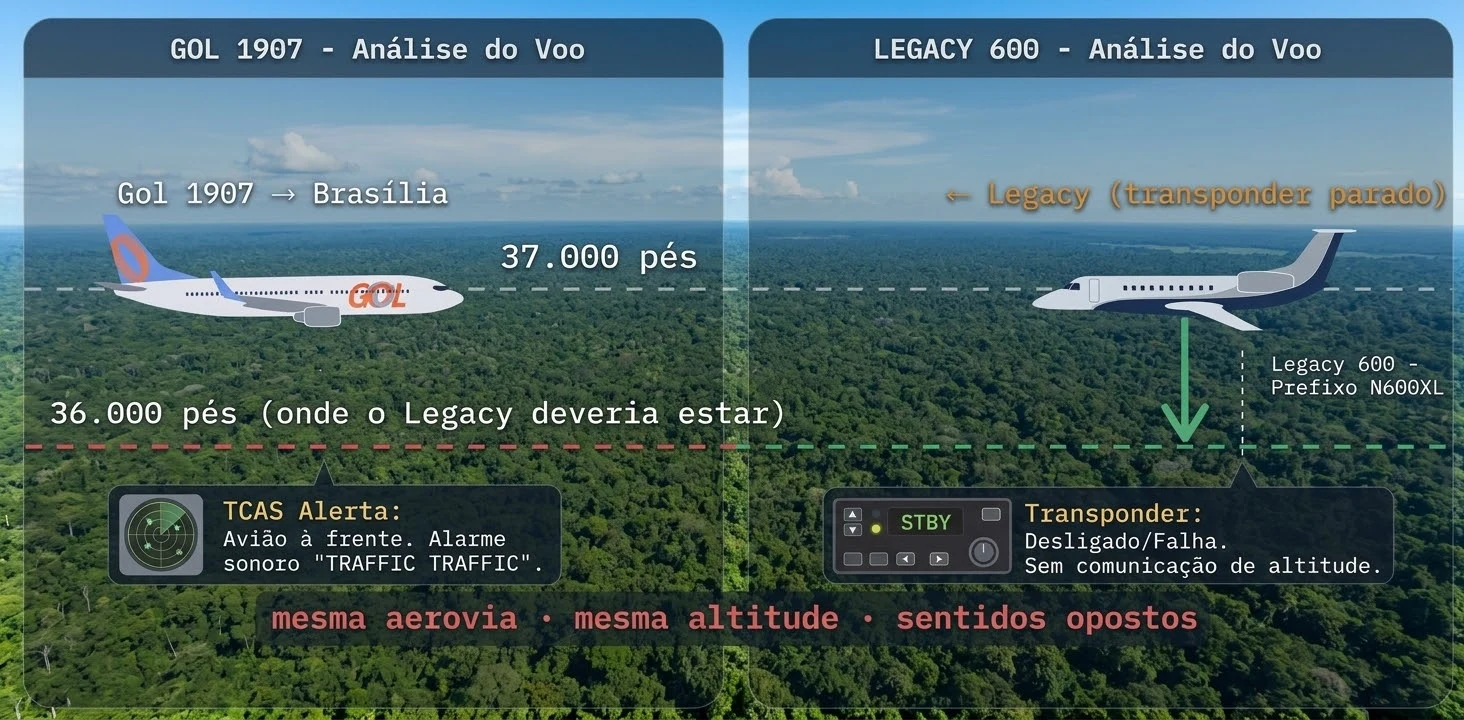
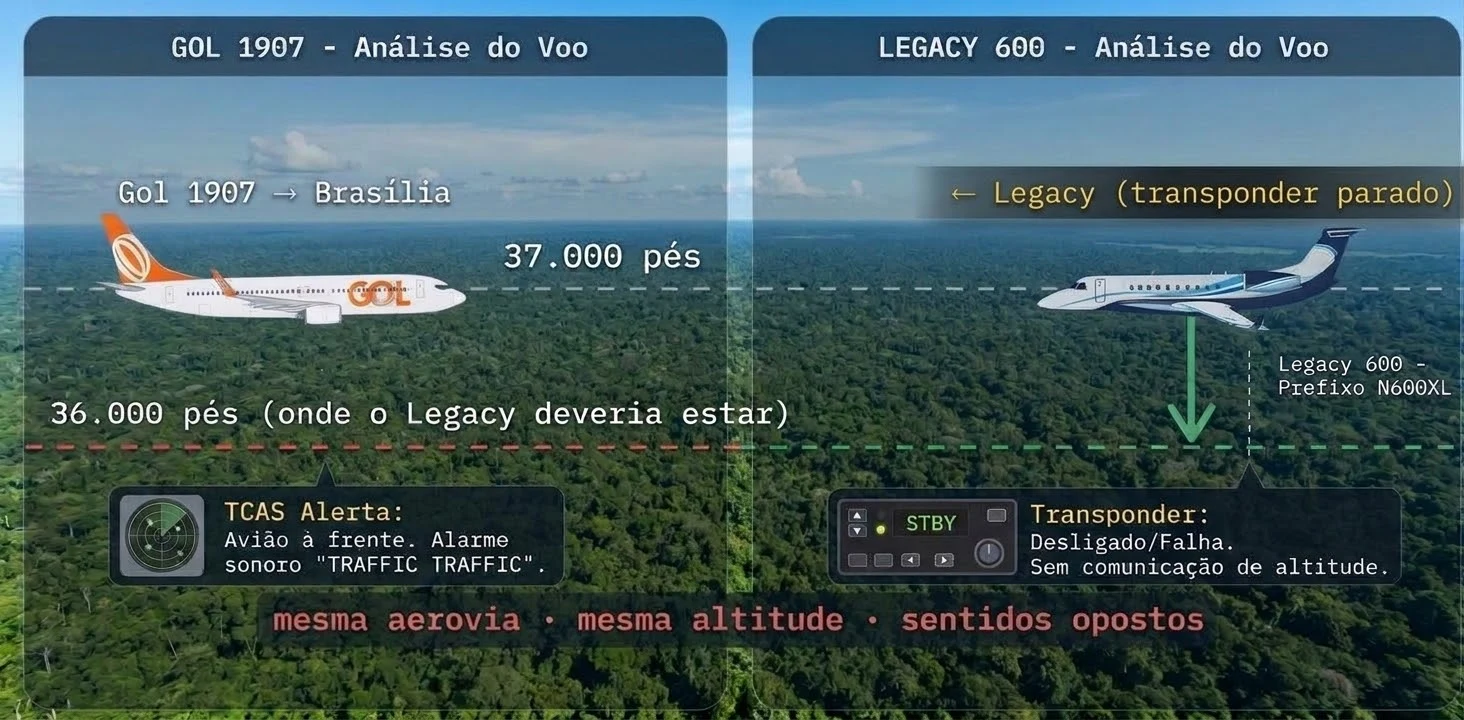
Hangar Escola: imagem nova em "O que falhou" do Gol 1907
Claude-Session: https://claude.ai/code/session_01PxKViBYL6qRqF4hkoHqSJb

Changed region(s): [[0.0, 0.0306, 1.0, 1.0], [0.5225, 0.0, 0.9836, 0.0917], [0.0307, 0.0, 0.4918, 0.0917]]

diff --git a/aviao/sw.js b/aviao/sw.js
@@ -1,7 +1,7 @@
 /* Service worker: o app abre e funciona offline. */
-const CACHE = 'hangar-escola-v167';
+const CACHE = 'hangar-escola-v168';
 // Os arquivos levam "?v=" no index.html: ao mudar a versão, o celular nunca mistura CSS/JS antigo com HTML novo.
-const FILES = ['./', 'index.html', 'style.css?v=167', 'avioes.js?v=167', 'catalogo747.js?v=167', 'cockpit747.js?v=167', 'motor3d.js?v=167', 'motor747.js?v=167', 'meteo.js?v=167', 'radio.js?v=167', 'historia.js?v=167', 'desastres.js?v=167', 'app.js?v=167', 'icon.svg', 'apple-touch-icon.png', 'icon-192.png', 'icon-512.png', 'manifest.webmanifest', 'assets/747-lateral.jpg', 'assets/747-frontal.jpg', 'assets/747-motor.jpg', 'assets/747-superior.png', 'assets/747-lado.webp', 'assets/747-lado-prof.webp', 'assets/747-tras.webp', 'assets/747-tras-trem.webp', 'assets/bank-angle.mp3', 'assets/v1.mp3', 'assets/nuvem-cb.webp', 'assets/nuvem-cu.webp', 'assets/nuvem-ci.webp', 'assets/nuvem-cc.webp', 'assets/nuvem-cs.webp', 'assets/nuvem-ac.webp', 'assets/nuvem-as.webp', 'assets/nuvem-ns.webp', 'assets/nuvem-sc.webp', 'assets/nuvem-st.webp', 'assets/nuvens-atlas.webp', 'assets/historia-1881.webp', 'assets/historia-vevey.webp', 'assets/historia-serraria.webp', 'assets/historia-dominguez.webp', 'assets/historia-curtiss.webp', 'assets/jal123-mapa.webp', 'assets/jal123-haneda.webp', 'assets/jal123-decolagem.webp', 'assets/jal123-cauda.webp', 'assets/jal123-cabine.webp', 'assets/jal123-hidraulico.webp', 'assets/jal123-manetes.webp', 'assets/jal123-montanhas.webp', 'assets/jal123-bilhete.webp', 'assets/jal123-c130.webp', 'assets/jal123-deriva.webp', 'assets/af447-mapa.webp', 'assets/af447-galeao.webp', 'assets/af447-decolagem.webp', 'assets/af447-lua.webp', 'assets/af447-tempestade.webp', 'assets/af447-painel.webp', 'assets/cauda-af.webp', 'assets/cauda-jal.webp', 'assets/cauda-mh.webp', 'assets/cauda-gol.webp', 'assets/gol1907-mapa.webp', 'assets/gol1907-legacy-sjc.webp', 'assets/gol1907-737.webp', 'assets/gol1907-legacy-voo.webp', 'assets/gol1907-cabine-legacy.webp', 'assets/gol1907-acc.webp', 'assets/gol1907-choque.webp', 'assets/gol1907-queda.webp', 'assets/gol1907-legacy-dano.webp', 'assets/gol1907-painel.webp', 'assets/gol1907-mata.webp', 'assets/gol1907-relatorio.webp', 'assets/gol1907-apagao.webp', 'assets/gol1907-justica.webp', 'assets/gol1907-destrocos.webp', 'assets/gol1907-rumo.webp', 'assets/gol1907-falha.webp', 'assets/gol1907-tcas.webp', 'assets/gol1907-controle.webp', 'assets/af447-pitot.webp', 'assets/af447-pitot-gelo.webp', 'assets/af447-manches.webp', 'assets/af447-estol.webp', 'assets/af447-cabine.webp', 'assets/af447-queda.webp', 'assets/af447-deriva.webp', 'assets/af447-painel-voos.webp', 'assets/af447-fundo.webp', 'assets/af447-relatorio.webp', 'assets/af447-sondas.webp', 'assets/af447-tribunal.webp', 'assets/af447-estol-diagrama.webp', 'assets/mh370-mapa.webp', 'assets/mh370-klia.webp', 'assets/mh370-decolagem.webp', 'assets/mh370-cinto.webp', 'assets/mh370-radar.webp', 'assets/mh370-peninsula.webp', 'assets/mh370-oceano.webp', 'assets/mh370-ultimo-eco.webp', 'assets/mh370-satelite.webp', 'assets/mh370-busca.webp', 'assets/mh370-bluefin.webp'];
+const FILES = ['./', 'index.html', 'style.css?v=168', 'avioes.js?v=168', 'catalogo747.js?v=168', 'cockpit747.js?v=168', 'motor3d.js?v=168', 'motor747.js?v=168', 'meteo.js?v=168', 'radio.js?v=168', 'historia.js?v=168', 'desastres.js?v=168', 'app.js?v=168', 'icon.svg', 'apple-touch-icon.png', 'icon-192.png', 'icon-512.png', 'manifest.webmanifest', 'assets/747-lateral.jpg', 'assets/747-frontal.jpg', 'assets/747-motor.jpg', 'assets/747-superior.png', 'assets/747-lado.webp', 'assets/747-lado-prof.webp', 'assets/747-tras.webp', 'assets/747-tras-trem.webp', 'assets/bank-angle.mp3', 'assets/v1.mp3', 'assets/nuvem-cb.webp', 'assets/nuvem-cu.webp', 'assets/nuvem-ci.webp', 'assets/nuvem-cc.webp', 'assets/nuvem-cs.webp', 'assets/nuvem-ac.webp', 'assets/nuvem-as.webp', 'assets/nuvem-ns.webp', 'assets/nuvem-sc.webp', 'assets/nuvem-st.webp', 'assets/nuvens-atlas.webp', 'assets/historia-1881.webp', 'assets/historia-vevey.webp', 'assets/historia-serraria.webp', 'assets/historia-dominguez.webp', 'assets/historia-curtiss.webp', 'assets/jal123-mapa.webp', 'assets/jal123-haneda.webp', 'assets/jal123-decolagem.webp', 'assets/jal123-cauda.webp', 'assets/jal123-cabine.webp', 'assets/jal123-hidraulico.webp', 'assets/jal123-manetes.webp', 'assets/jal123-montanhas.webp', 'assets/jal123-bilhete.webp', 'assets/jal123-c130.webp', 'assets/jal123-deriva.webp', 'assets/af447-mapa.webp', 'assets/af447-galeao.webp', 'assets/af447-decolagem.webp', 'assets/af447-lua.webp', 'assets/af447-tempestade.webp', 'assets/af447-painel.webp', 'assets/cauda-af.webp', 'assets/cauda-jal.webp', 'assets/cauda-mh.webp', 'assets/cauda-gol.webp', 'assets/gol1907-mapa.webp', 'assets/gol1907-legacy-sjc.webp', 'assets/gol1907-737.webp', 'assets/gol1907-legacy-voo.webp', 'assets/gol1907-cabine-legacy.webp', 'assets/gol1907-acc.webp', 'assets/gol1907-choque.webp', 'assets/gol1907-queda.webp', 'assets/gol1907-legacy-dano.webp', 'assets/gol1907-painel.webp', 'assets/gol1907-mata.webp', 'assets/gol1907-relatorio.webp', 'assets/gol1907-apagao.webp', 'assets/gol1907-justica.webp', 'assets/gol1907-destrocos.webp', 'assets/gol1907-rumo.webp', 'assets/gol1907-falha.webp', 'assets/gol1907-tcas.webp', 'assets/gol1907-controle.webp', 'assets/af447-pitot.webp', 'assets/af447-pitot-gelo.webp', 'assets/af447-manches.webp', 'assets/af447-estol.webp', 'assets/af447-cabine.webp', 'assets/af447-queda.webp', 'assets/af447-deriva.webp', 'assets/af447-painel-voos.webp', 'assets/af447-fundo.webp', 'assets/af447-relatorio.webp', 'assets/af447-sondas.webp', 'assets/af447-tribunal.webp', 'assets/af447-estol-diagrama.webp', 'assets/mh370-mapa.webp', 'assets/mh370-klia.webp', 'assets/mh370-decolagem.webp', 'assets/mh370-cinto.webp', 'assets/mh370-radar.webp', 'assets/mh370-peninsula.webp', 'assets/mh370-oceano.webp', 'assets/mh370-ultimo-eco.webp', 'assets/mh370-satelite.webp', 'assets/mh370-busca.webp', 'assets/mh370-bluefin.webp'];
 
 self.addEventListener('install', (e) => {
   e.waitUntil(caches.open(CACHE).then((c) => c.addAll(FILES)).then(() => self.skipWaiting()));

diff --git a/aviao/index.html b/aviao/index.html
@@ -17,7 +17,7 @@
   <link rel="preconnect" href="https://fonts.googleapis.com">
   <link rel="preconnect" href="https://fonts.gstatic.com" crossorigin>
   <link href="https://fonts.googleapis.com/css2?family=Barlow+Condensed:wght@500;600;700&family=IBM+Plex+Mono:wght@400;500&family=IBM+Plex+Sans:wght@400;500;600&display=swap" rel="stylesheet">
-  <link rel="stylesheet" href="style.css?v=167">
+  <link rel="stylesheet" href="style.css?v=168">
 </head>
 <body>
   <!-- Intro: o avião decola pela pista iluminada e aparece o nome do app (toque para pular) -->
@@ -989,16 +989,16 @@
       </div>
     </section>
   </aside>
-  <script src="avioes.js?v=167"></script>
-  <script src="catalogo747.js?v=167"></script>
-  <script src="cockpit747.js?v=167"></script>
-  <script src="motor3d.js?v=167"></script>
-  <script src="motor747.js?v=167"></script>
-  <script src="meteo.js?v=167"></script>
-  <script src="radio.js?v=167"></script>
-  <script src="historia.js?v=167"></script>
-  <script src="desastres.js?v=167"></script>
-  <script src="app.js?v=167"></script>
+  <script src="avioes.js?v=168"></script>
+  <script src="catalogo747.js?v=168"></script>
+  <script src="cockpit747.js?v=168"></script>
+  <script src="motor3d.js?v=168"></script>
+  <script src="motor747.js?v=168"></script>
+  <script src="meteo.js?v=168"></script>
+  <script src="radio.js?v=168"></script>
+  <script src="historia.js?v=168"></script>
+  <script src="desastres.js?v=168"></script>
+  <script src="app.js?v=168"></script>
   <script>
     // No APK os arquivos já vêm dentro do app; o service worker é só para o site.
     const nativo = !!(window.Capacitor && window.Capacitor.isNativePlatform && window.Capacitor.isNativePlatform());

diff --git a/aviao/desastres.js b/aviao/desastres.js
@@ -285,7 +285,7 @@ function falhaGol1907() {
   // Esquema da colisão sobre a imagem; o quadro do TCAS foi corrigido: no voo 1907 ele não deu nenhum alerta
   return `<svg viewBox="0 0 1464 720" role="img" aria-label="Esquema: o Boeing da Gol e o Legacy voavam a 37.000 pés na mesma aerovia, em sentidos opostos; o Legacy deveria estar a 36.000 pés e estava com o transponder parado, e o TCAS do Boeing não deu alerta">
     <image href="assets/gol1907-falha.webp" x="0" y="0" width="1464" height="720"/>
-    <rect x="214" y="494" width="340" height="84" fill="#1c2b2e"/>
+    <rect x="216" y="494" width="342" height="84" fill="#182628"/>
     <text x="224" y="522" class="gf-tit">TCAS: em silêncio</text>
     <text x="224" y="550" class="gf-txt">Sem resposta do transponder</text><text x="224" y="574" class="gf-txt">do Legacy, nenhum alarme soou.</text>
   </svg>`;
